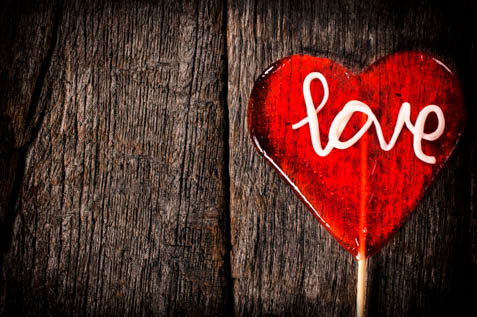
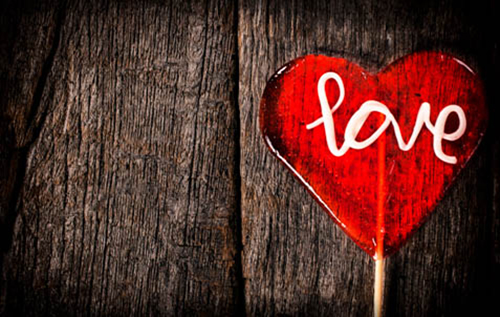
slide 改版底圖

diff --git a/index.html b/index.html
@@ -163,11 +163,11 @@
       margin: 0;
     }
 
-    .carousel2 .slide>amp-img>img {
+    .carousel2 .slide amp-img {
       object-fit: contain;
     }
 
-    .carousel2 .caption-1 {
+    .caption-1 {
       position: absolute;
       top: 30px;
       left: 50px;
@@ -179,28 +179,28 @@
       max-height: 100%;
     }
 
-    .carousel2 .caption-2 {
+    .caption-2 {
       position: absolute;
-      top: 50px;
+      top: 30px;
       left: 50px;
-      right: 150px;
+      right: 50px;
       padding: 10px;
       background: rgba(0, 0, 0, 0.6);
       color: #ddd;
-      font-size: 1em;
-      max-height: 30%;
+      font-size: 0.9em;
+      max-height: 100%;
     }
 
-    .carousel2 .caption-3 {
+    .caption-3 {
       position: absolute;
-      top: 50px;
+      top: 30px;
       left: 50px;
-      right: 150px;
+      right: 50px;
       padding: 10px;
       background: rgba(0, 0, 0, 0.6);
       color: #ddd;
-      font-size: 1em;
-      max-height: 30%;
+      font-size: 0.9em;
+      max-height: 100%;
     }
   </style>
   <style amp-boilerplate>
@@ -354,7 +354,6 @@
     <a href="#">教學課程</a>
   </nav>
 
-
   <article>
     <h1>
       <amp-img src="./img/thumbs-up-icon.png" width="25" height="25"></amp-img>
@@ -382,21 +381,38 @@
       </div>
 
       <div class="slide">
-        <amp-img src="./img/fate-main-1.png" layout="fill" alt="前世今生"></amp-img>
-        <div class="caption-2">
-          前世今生
+        <amp-img src="./img/sky-house.jpg" layout="fill" alt="前世今生"></amp-img>
+        <div class="caption-1">
+          <b>前世今生
+            <hr>
+          </b>
+          靈魂在輪迴中，今生的重大功課都與前世有關，身邊的家人、愛人、孩子都是前世緣分再聚，每個人也是根據前世的未完功課安排今生的考驗，探視您的前世解開一切的人生謎團。
+        </div>
+      </div>
+      
+      <div class="slide">
+        <amp-img src="./img/key-hand.jpg" layout="fill" alt="八字命理"></amp-img>
+        <div class="caption-1">
+          <b>八字命理
+            <hr>
+          </b>
+          真正的命理，能準確的預測人生的主要大事件，就像掌握了自己人生的KEY，解開生命的密碼，順應命，了解運程的高低，才能適時決定該如何前進。
         </div>
       </div>
 
       <div class="slide">
-        <amp-img src="./img/fate-main-1.png" layout="fill" alt="塔羅占卜Ｆ"></amp-img>
-        <div class="caption-3">
-          塔羅占卜
+        <amp-img src="./img/sky-star.jpg" layout="fill" alt="塔羅占卜"></amp-img>
+        <div class="caption-1">
+          <b>塔羅占卜
+            <hr>
+          </b>
+          西洋神秘學的預測占卜中，托特塔羅牌擁有的神奇能力，它包含了卡巴拉、占星、靈動數、四大元素、星座等，交織人生的百態，可以圖像化的預測未來吉凶，讓我們做出聰明的選擇。
         </div>
       </div>
     </amp-carousel>
 
-    <amp-img src="./img/mountains.jpg" layout="responsive" width="266" height="150"></amp-img>
+    <amp-img src="./img/budda.jpg" layout="responsive" width="500" height="317"></amp-img>
+    <amp-img src="./img/light-women.jpg" layout="responsive" width="500" height="315"></amp-img>
 
     <amp-youtube data-videoid="npum8JsITQE" layout="responsive" width="480" height="270">
       <div fallback>
